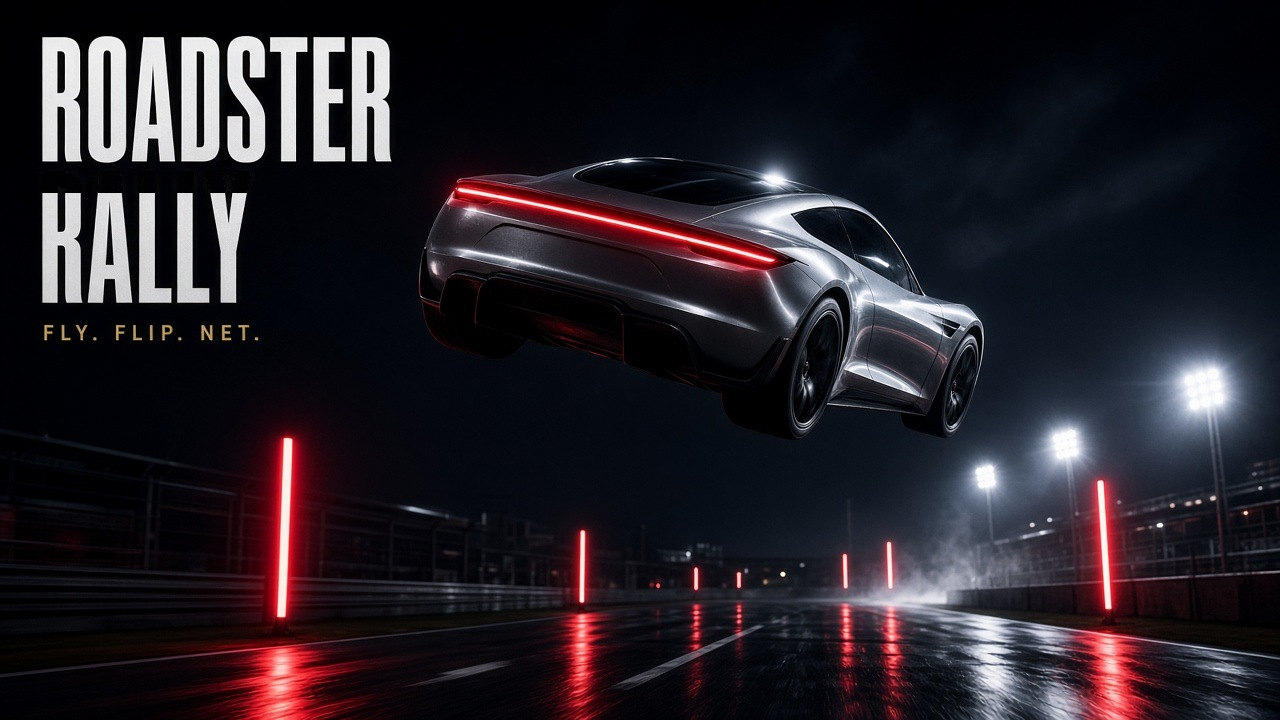
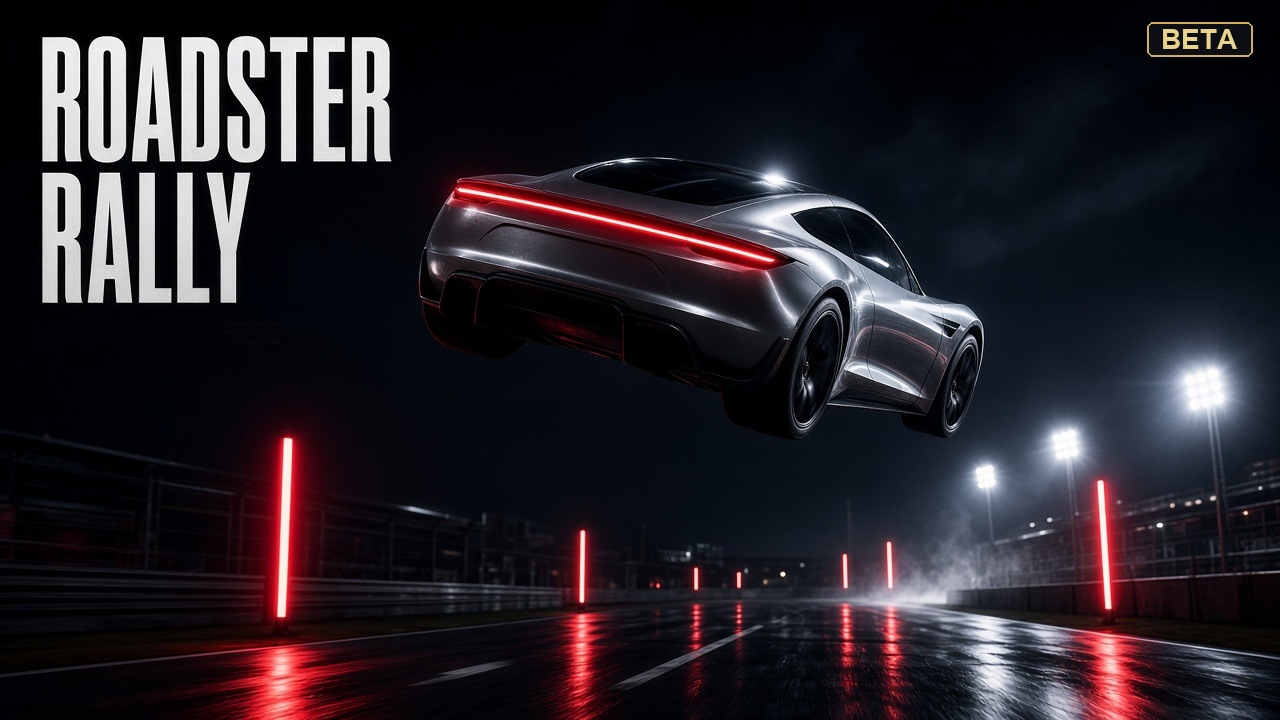
Homepage Roadster Rally photoreal poster tile.
Point the hub hero at the cleaned photoreal poster (BETA, no
FLY. FLIP. NET.). Drop cartoon card assets. Keep Play on /play/.

diff --git a/assets/apps.js b/assets/apps.js
@@ -84,10 +84,10 @@
       },
       links: [],
       hero: {
-        src: "/assets/roadster-card-classic.jpg",
+        src: "/assets/roadster-rally-poster.jpg",
         width: 1280,
         height: 720,
-        alt: "Roadster Rally Classic. White Roadster mid-flip over a red truck.",
+        alt: "Roadster Rally Classic BETA. Photoreal Roadster mid-jump on a wet night track.",
         href: "/roadster-rally/play/",
       },
       accent: "rally",
